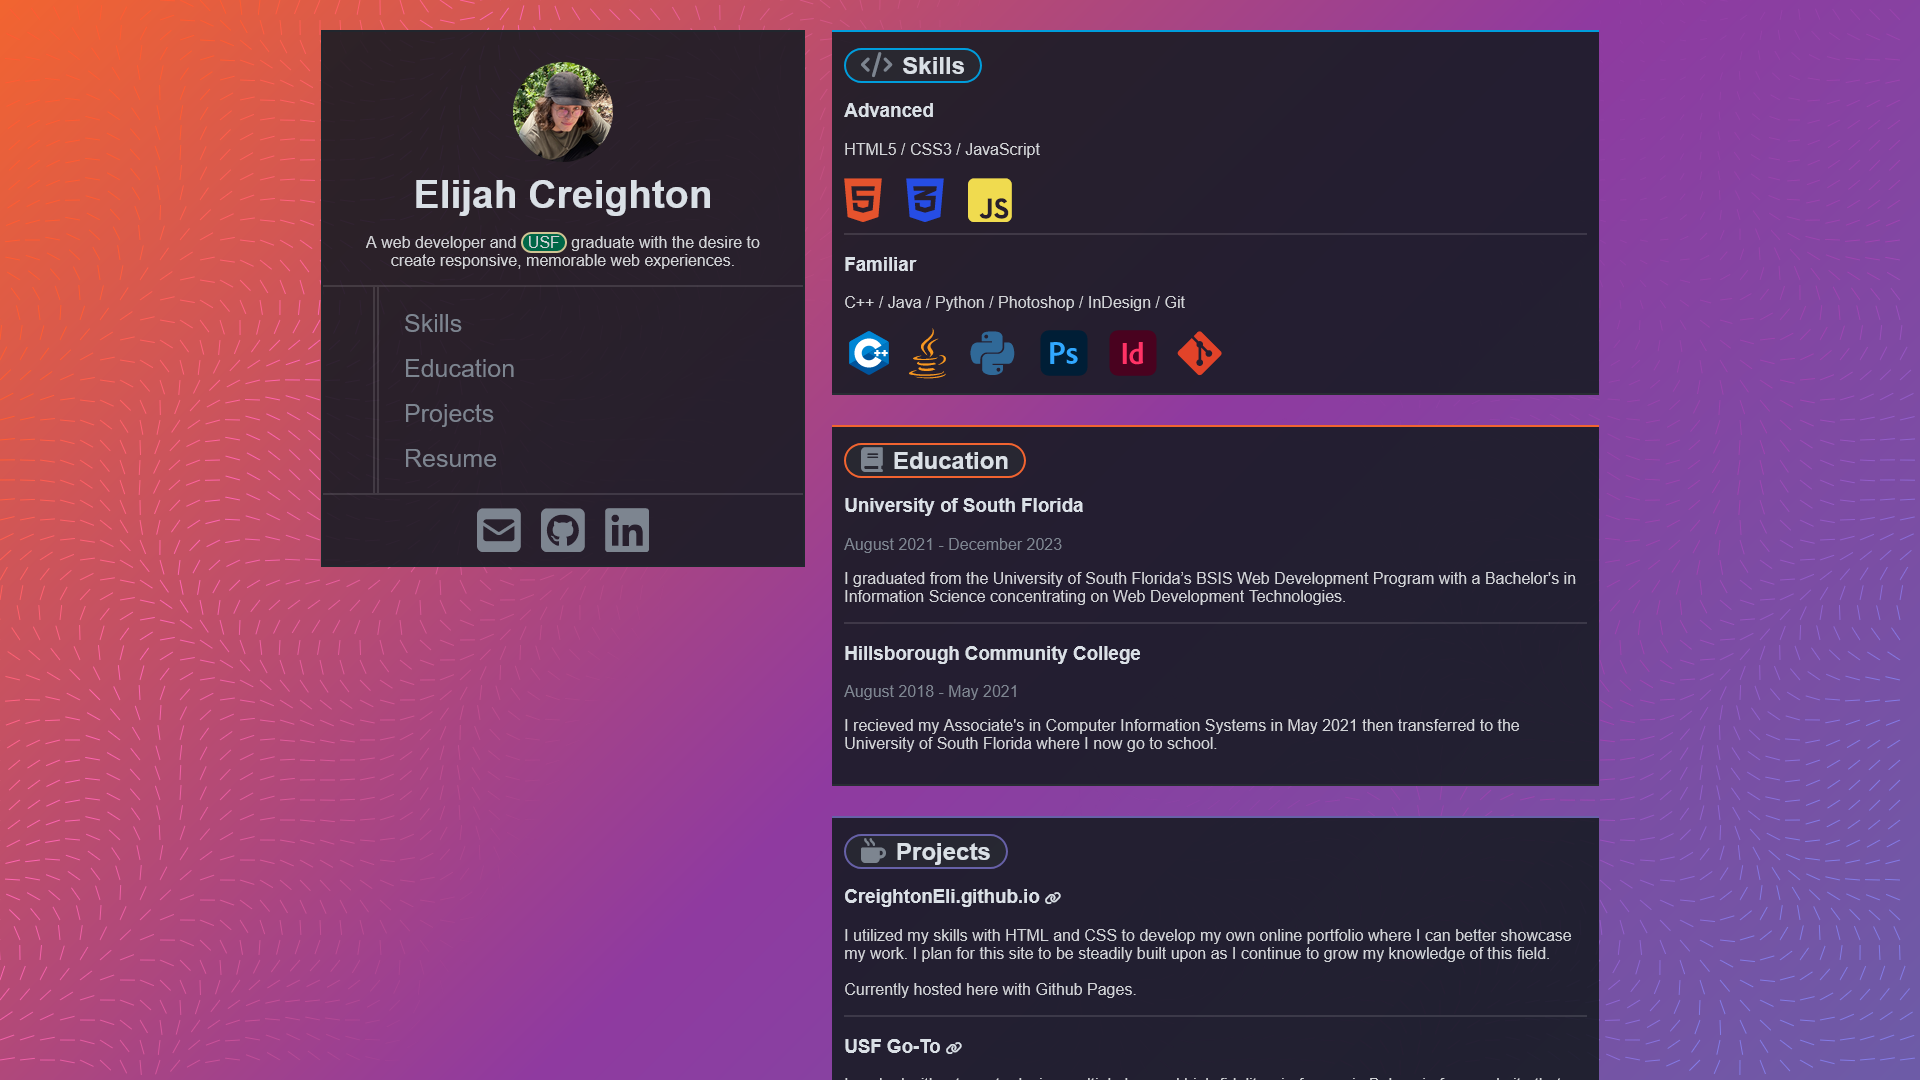
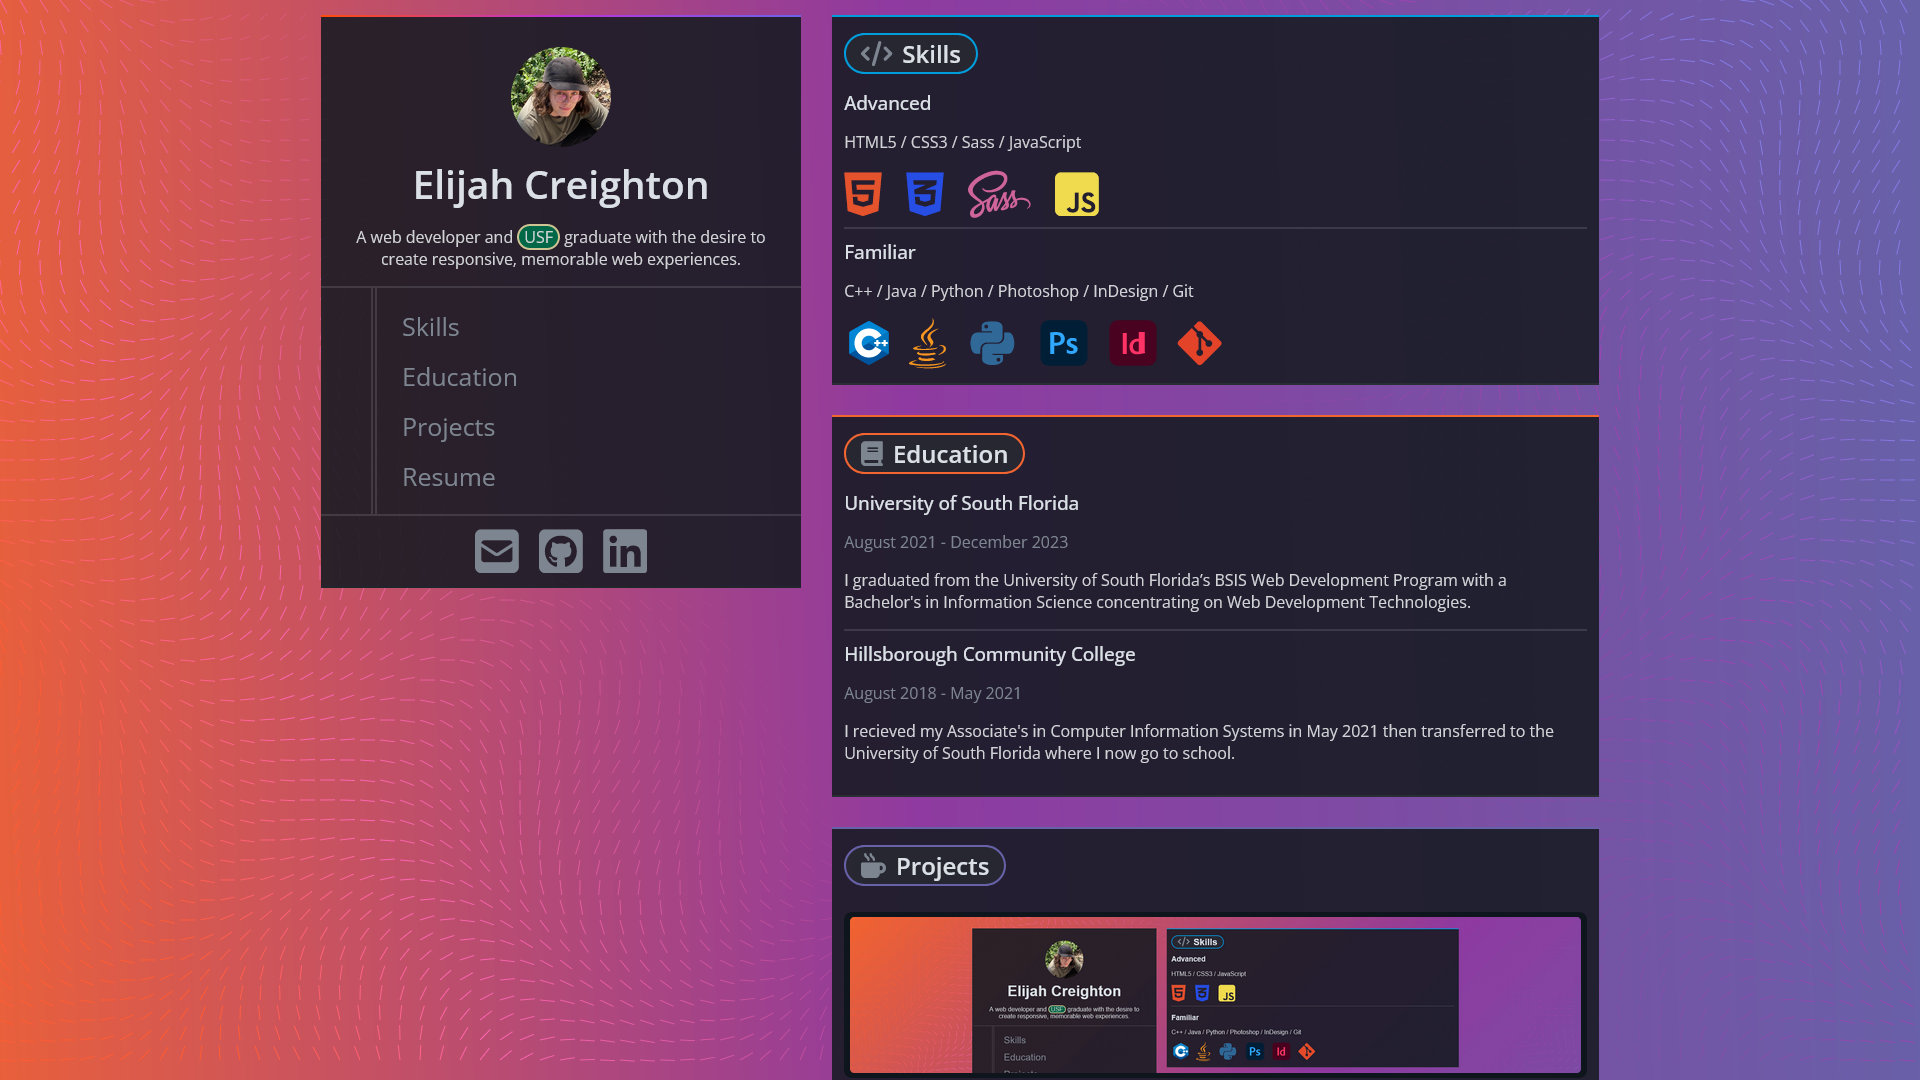
minor changes
- background canvas gradient has changed a bit.
- resume document has been updated
- added some margins to the mobile nav dropdown list items to space them out better

diff --git a/style.css b/style.css
@@ -28,7 +28,7 @@ _______________________________________________________
     /* Gradients */
     /* --gradient-1: linear-gradient(var(--background-color-1), var(--background-color-2)); */
     --gradient-1: linear-gradient(to right, var(--border-color-3), var(--text-color-1)) no-repeat left bottom / 0 var(--bg-h);
-    --gradient-2: linear-gradient(135deg, #f26430, #8f3aa0, #6761a8);
+    --gradient-2: linear-gradient(88deg, #f26430, #8f3aa0, #6761a8);
     --gradient-3: linear-gradient(to right, #ff4c0b, #bc32d8, #6e62e9);
 
     /* Border Colors */
@@ -330,6 +330,7 @@ nav h1 {
 #mobileNav .blockList li {
     display: block;
     float: none;
+    margin: 0 0 12px;
 }
 
 #mobileNav .inlineList {

diff --git a/canvas.js b/canvas.js
@@ -54,7 +54,7 @@ class FlowFieldEffect {
         this.vr = 0.006;
     }
     #createGradient(){
-        this.gradient = this.#ctx.createLinearGradient(0, 0, this.#width, this.#height);
+        this.gradient = this.#ctx.createLinearGradient(0, this.#height, this.#width, 0);
         this.gradient.addColorStop("0.1","#ff5c33");
         this.gradient.addColorStop("0.2","#ff66b3");
         this.gradient.addColorStop("0.4","#ccccff00");
